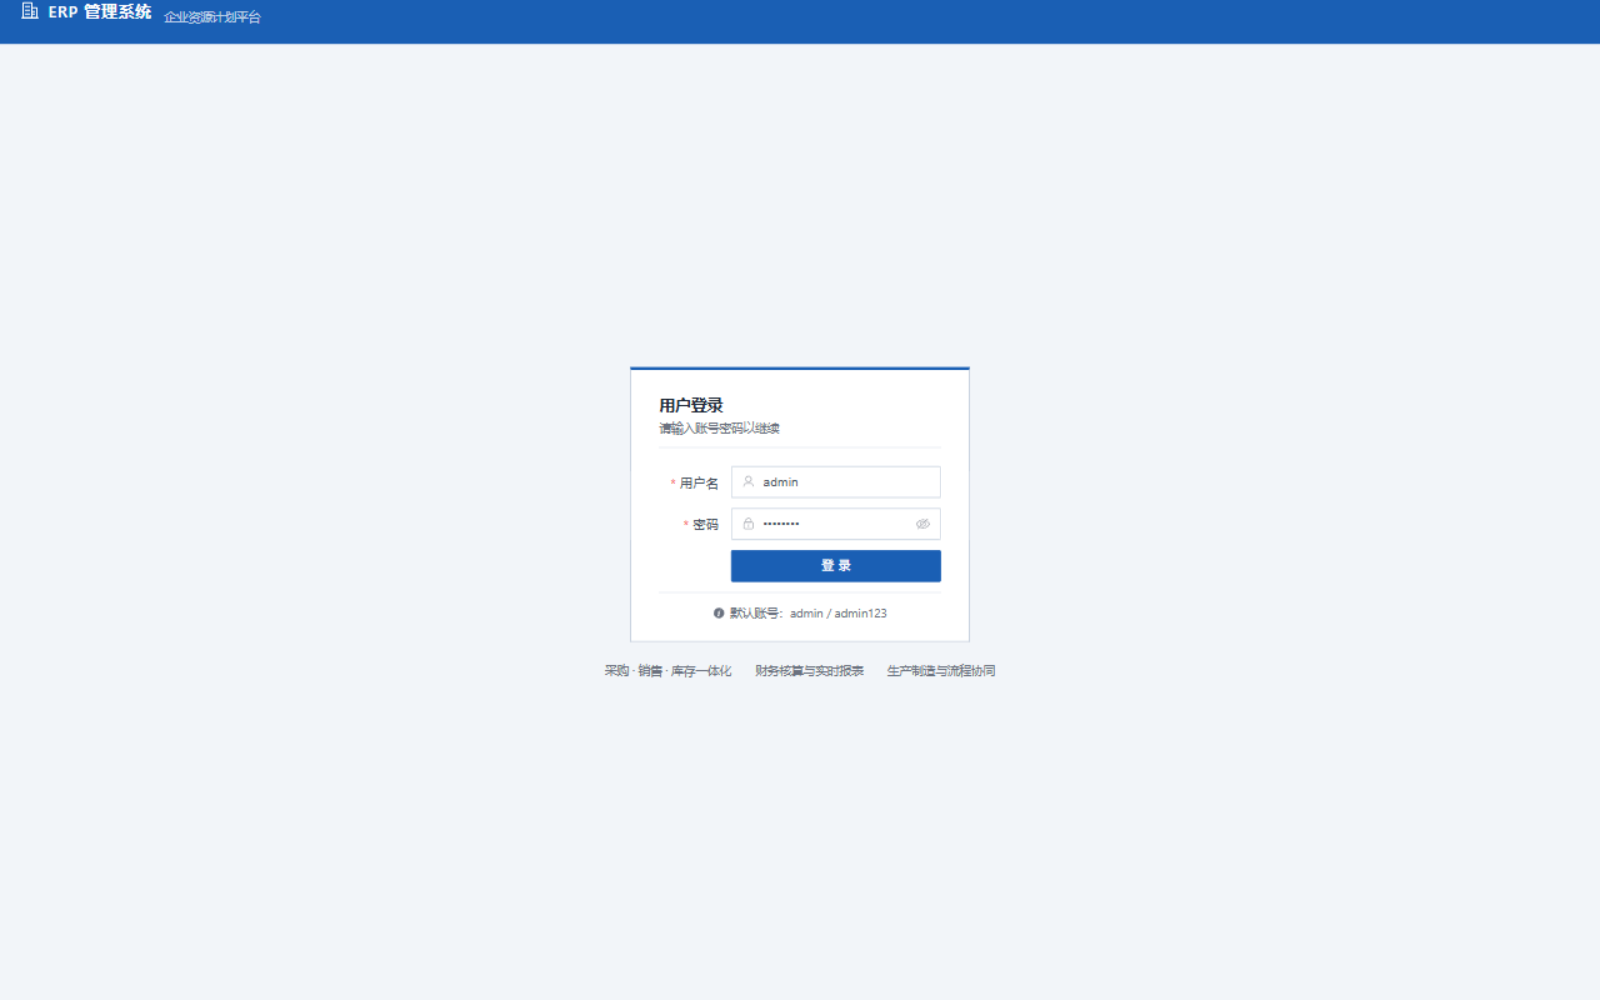
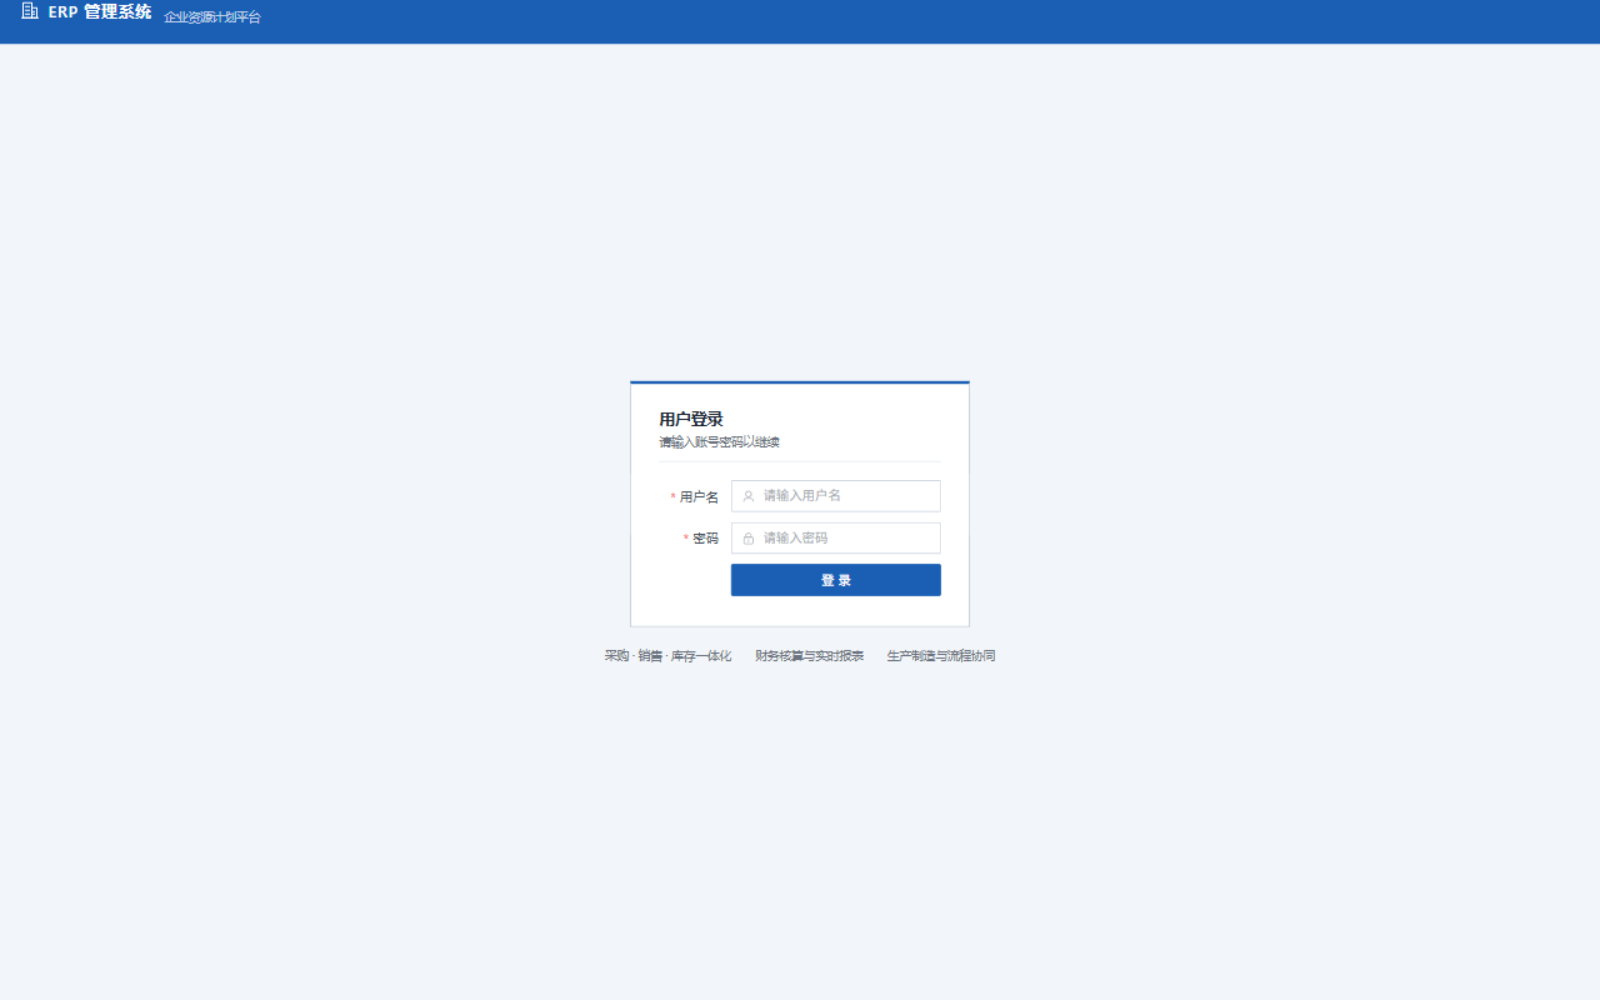
docs: 规划书改为按产品形态描述能力，README 补充凭据配置说明
- 规划书中的产品对标章节改为「主流 ERP 产品形态分析」，
  按组织规模与交付形态归类并提炼共性能力，不再点名具体厂商；
- README 补充 ERP_ADMIN_PASSWORD 与 JWT_SECRET 的配置说明，
  说明演示账号为可选导入。

同步更新登录页截图。

Changed region(s): [[0.4062, 0.341, 0.5938, 0.62], [0.375, 0.651, 0.625, 0.682]]

diff --git a/docs/项目规划书.md b/docs/项目规划书.md
@@ -8,7 +8,7 @@
 
 ### 1.1 项目背景
 
-企业经营日益复杂，业务、财务、供应链、生产之间的数据割裂问题突出。本项目旨在研发一套**自主可控、财务业务一体化、可配置、可扩展**的 ERP 管理系统，对标金蝶云·星空 / 金蝶 K/3 WISE 的核心能力，支持中小企业到中大型组织的数字化管理需求。
+企业经营日益复杂，业务、财务、供应链、生产之间的数据割裂问题突出。本项目旨在研发一套**自主可控、财务业务一体化、可配置、可扩展**的 ERP 管理系统，覆盖财务、供应链、生产制造、人力资源四大板块的通用能力，支持中小企业到中大型组织的数字化管理需求。
 
 ### 1.2 项目目标
 
@@ -20,16 +20,16 @@
 | 权限精细 | 功能权限 + 数据权限双重管控 |
 | 技术先进 | 模块化单体演进微服务，支持容器化部署 |
 
-### 1.3 对标产品分析（金蝶）
+### 1.3 主流 ERP 产品形态分析
 
-金蝶产品线核心能力提炼：
+市面主流 ERP 按组织规模与交付形态分为四类，本项目取其共性能力作为功能设计依据：
 
-| 金蝶产品 | 定位 | 可借鉴的核心能力 |
-|----------|------|------------------|
-| 金蝶 K/3 WISE | 传统单体 ERP | 财务+供应链+生产完整闭环 |
-| 金蝶云·星空 | 中大型企业云 ERP | 多组织云化、BOS 低代码平台、OpenAPI 生态 |
-| 金蝶云·星辰 | 小微企业 SaaS | 轻量化、按需启用模块 |
-| 金蝶 EAS | 集团级 | 集团合并报表、人力资本管理 |
+| 产品形态 | 典型定位 | 通用能力特征 |
+|----------|----------|--------------|
+| 单体套件型 | 中小型企业 | 财务+供应链+生产完整闭环 |
+| 平台云化型 | 中大型组织 | 多组织云化、低代码平台、开放 API 生态 |
+| 轻量 SaaS 型 | 小微企业 | 轻量化、按需启用模块 |
+| 集团管控型 | 集团总部 | 集团合并报表、人力资本管理 |
 
 **本系统重点借鉴：**
 1. 财务业务一体化设计与自动转账机制
@@ -37,7 +37,7 @@
 3. 单据驱动的业务流程（一单到底、上下游单据联查）
 4. 多组织、多账套、多币别、多计量单位核算体系
 5. 可配置工作流引擎（BPM）
-6. 类金蝶的 Excel 式报表/查询工具
+6. Excel 风格的报表与查询工具（导出即用，贴近财务人员习惯）
 
 ### 1.4 设计原则
 
@@ -144,7 +144,7 @@ graph TD
 
 | 层次 | 技术 | 选型理由 |
 |------|------|----------|
-| 后端框架 | **Java 17+ / Spring Boot 3.x** | 企业级 ERP 主流，生态成熟，与金蝶技术栈一致 |
+| 后端框架 | **Java 17+ / Spring Boot 3.x** | 企业级 ERP 主流技术栈，生态成熟 |
 | 持久层 | **MyBatis-Plus 3.5** | 灵活 SQL，国内主流，适合复杂报表查询 |
 | 数据库 | **MySQL 8.0**（实际实现） | 已在 MySQL 8.4 上完成全量初始化与业务链路验证 |
 | 缓存 | **Redis 7** | 已引入依赖，当前用于会话与字典扩展预留 |

diff --git a/README.md b/README.md
@@ -168,7 +168,17 @@ npm install
 npm run dev
 ```
 
-默认账号 `admin / admin123`（首次启动自动创建）。
+### 5.1 配置初始管理员
+
+管理员口令**不设默认值**，必须由部署方通过环境变量指定：
+
+```bash
+export ERP_ADMIN_PASSWORD='你的初始口令'
+export JWT_SECRET='至少 32 字节的随机密钥'
+```
+
+未配置 `ERP_ADMIN_PASSWORD` 时应用不会创建管理员账号，需要在系统管理中手工建号。
+`JWT_SECRET` 未配置或长度不足时应用拒绝签发令牌——固定密钥等同于任何人都能伪造登录态。
 
 ### 6. 一键验证
 
@@ -186,14 +196,19 @@ java -cp "target/classes;target/test-classes;$(cat target/cp.txt)" \
   com.erp.tools.WorkflowE2ETest
 ```
 
-### 7. 演示账号
+### 7. 演示账号（可选）
 
-密码统一为 `admin123`。
+演示账号使用统一口令，因此**不放进初始化流程**，需要时单独导入：
+
+```bash
+mysql -uroot -p erp < erp-server/src/main/resources/db/seed/demo_accounts.sql
+```
+
+口令统一为 `admin123`。
 
 | 账号 | 角色 | 数据范围 | 说明 |
 |------|------|----------|------|
-| admin | 超级管理员 | 全部 | 绕过审批流与数据范围 |
-| finance | 财务主管 | 全部 | 财务模块 + 审批 |
+| admin | 超级管理员 | 全部 | 由 `ERP_ADMIN_PASSWORD` 指定 |
 | purchaser | 采购员 | 本部门 | 采购模块 + 审批 |
 | seller | 销售员 | 本部门 | 销售模块 + 审批 |
 | warehouse | 仓管员 | 本部门及以下 | 库存模块 + 审批 |
